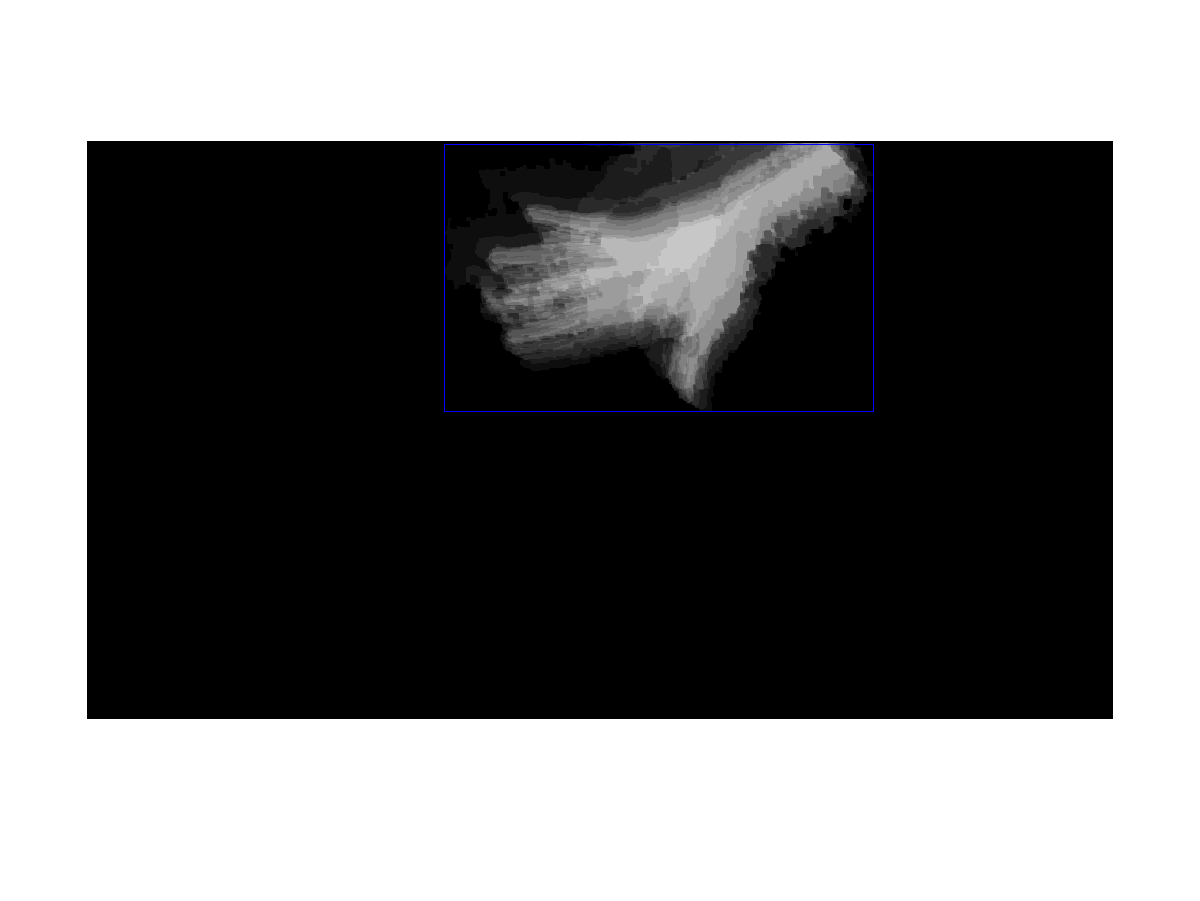
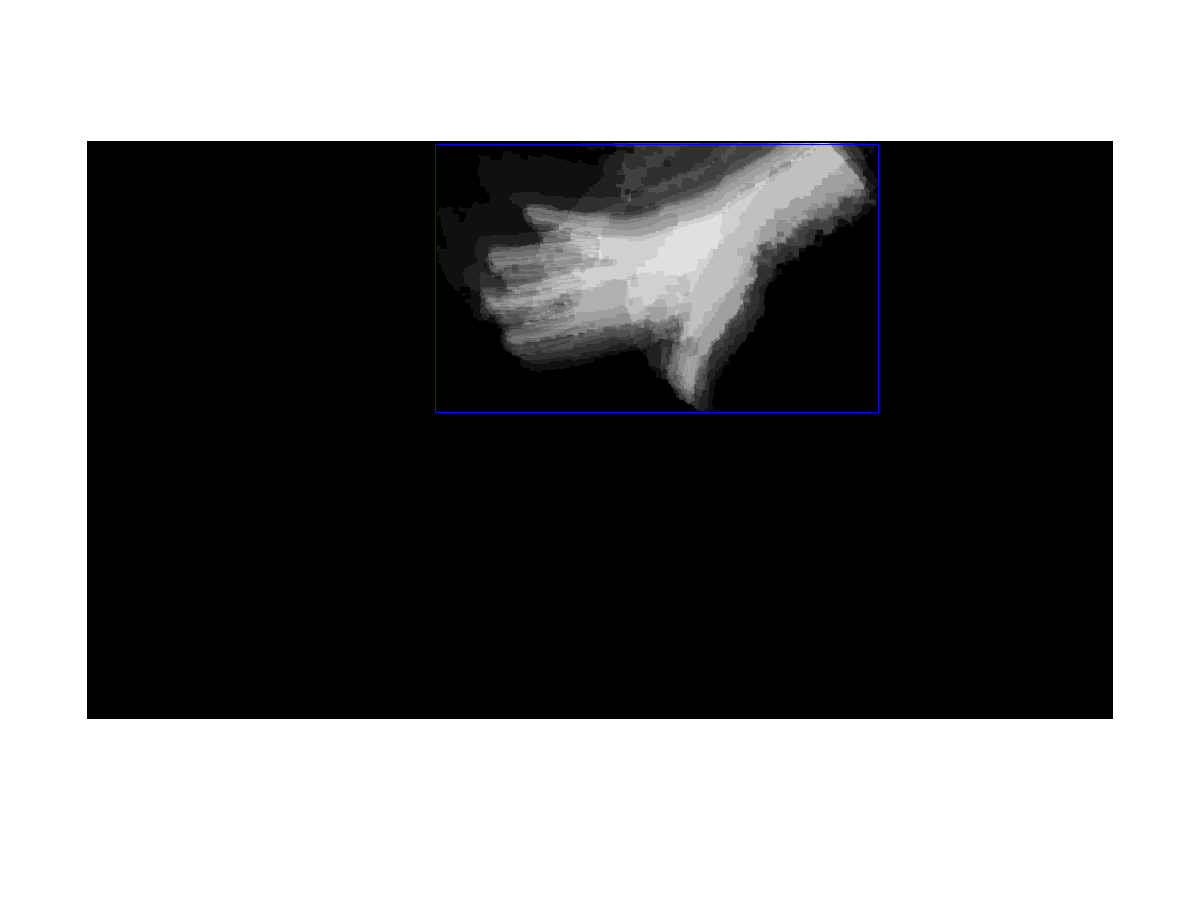
WTF Motion History Image

Changed region(s): [[0.4008, 0.1554, 0.74, 0.4661]]

diff --git a/findHand.m b/findHand.m
@@ -1,9 +1,9 @@
 % finds the location of the hand in the image and returns the 4 parameters of
 % a bounding box in the x and y plane. 0,0 is top left corner.
 %
-function [minX, maxX, minY, maxY] = findHand(binIm)
+function [minX, maxX, minY, maxY] = findHand(mhi)
     
-    dim = size(binIm);
+    dim = size(mhi);
     
     minX = 0;
     maxX = 0;
@@ -11,28 +11,28 @@ function [minX, maxX, minY, maxY] = findHand(binIm)
     maxY = 0;
     
     for r = 1:dim(1)
-        if (sum(binIm(r,:)) > 0) & (minY == 0)
+        if (sum(mhi(r,:)) > 0) & (minY == 0)
             minY = r;
             break;
         end
     end
         
     for r = dim(1):-1:1
-        if (sum(binIm(r,:)) > 0) & (maxY == 0)
+        if (sum(mhi(r,:)) > 0) & (maxY == 0)
             maxY = r;
             break;
         end
     end
     
     for c = 1:dim(2)
-        if (sum(binIm(:,c)) > 0) & (minX == 0)
+        if (sum(mhi(:,c)) > 0) & (minX == 0)
             minX = c;
             break;
         end
     end
     
     for c = dim(2):-1:1
-        if (sum(binIm(:,c)) > 0) & (maxX == 0)
+        if (sum(mhi(:,c)) > 0) & (maxX == 0)
             maxX = c;
             break;
         end

diff --git a/motionHistoryImage.m b/motionHistoryImage.m
@@ -1,10 +1,20 @@
 function [motionHistory] = motionHistoryImage(binaries)
 
 	num = size(binaries);
-	avg = zeros(num(1),num(2));
+	avg = double(binaries(:,:,1));
 
-	for i = 1:num(3)
-		avg = avg + double(binaries(:,:,i));
+    total = num(3);
+
+	for i = 2:num(3)
+	    if ((i <= 3) & ~sum(sum(avg & binaries(:,:,i))))
+    	    avg = double(binaries(:,:,i));
+    	    total = total-i+1;
+        elseif ((i >= num-3) & ~sum(sum(avg & binaries(:,:,i))))
+            total = total - (num-i+1);
+            break;
+        else
+       		avg = avg + double(binaries(:,:,i));
+        end
 	end
 
-	motionHistory = avg/num(3);
+	motionHistory = avg/total;

diff --git a/boundingBoxTest.m b/boundingBoxTest.m
@@ -7,14 +7,13 @@ function [] = boundingBoxTest(seq, show, backNum, path)
         backNum = 1;
     end
     if nargin < 2
-        show = 1
+        show = 1;
     end    
     
     binIms = binariseSeq(seq, backNum, path);
-    [minX maxX minY maxY] = getBBox(binIms);    
     mhi = motionHistoryImage(binIms);
+    [minX maxX minY maxY] = findHand(mhi);
 
-    
     figure(show)
     imshow(mhi)
     hold on

diff --git a/binariseSeq.m b/binariseSeq.m
@@ -35,4 +35,8 @@ function [binSeq] = binariseSeq(seq, backNum, path)
         diff = abs(fore-back);
         binIm = binariseIm(diff);
         binSeq(:,:,i) = binIm;
+        figure(num(1)+24)
+        imshow(binIm);
     end
+    
+    

diff --git a/showAllBoundingBoxesScript.m b/showAllBoundingBoxesScript.m
@@ -6,6 +6,6 @@ seqs = listSeqs(path);
 
 dim = size(seqs);
 
-for i = 1:dim(1)
+for i = 10:10 %dim(1)
     boundingBoxTest(seqs(i,:), i, 1, path);
 end
